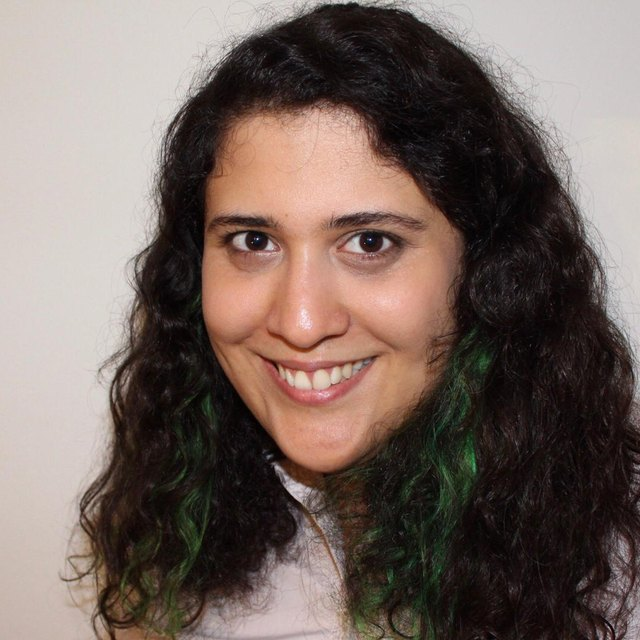
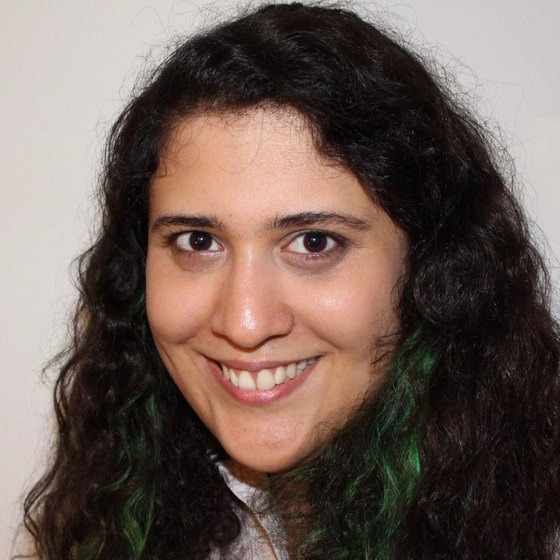
beautify

diff --git a/index.html b/index.html
@@ -9,7 +9,7 @@ permalink: /
 
     <aside class="profile__card">
       <img class="profile__avatar" src="{{ '/assets/img/nika.jpg' | relative_url }}"
-           alt="Nika Mansouri Ghiasi" width="640" height="640">
+           alt="Nika Mansouri Ghiasi" width="560" height="560">
       <h1 class="profile__name">{{ site.title }}</h1>
       <p class="profile__role">{{ site.role }}</p>
       <p class="profile__org"><a href="{{ site.org_url }}">{{ site.org }}</a></p>
@@ -58,7 +58,7 @@ permalink: /
       </p>
 
       <aside class="callout">
-        <p class="callout__label">On the Academic Job market</p>
+        <p class="callout__label">On the Academic Job Market</p>
         <p>
           I am on the academic job market for tenure-track faculty positions. If you know of
           opportunities and openings, or are interested in talking about research, 

diff --git a/assets/css/style.css b/assets/css/style.css
@@ -162,7 +162,7 @@ img { max-width: 100%; }
   height: 190px;
   border-radius: 50%;
   object-fit: cover;
-  object-position: center 22%;
+  object-position: center;
   border: 5px solid #fff;
   box-shadow: 0 3px 14px rgba(20, 30, 50, .13);
   background: var(--alt);
